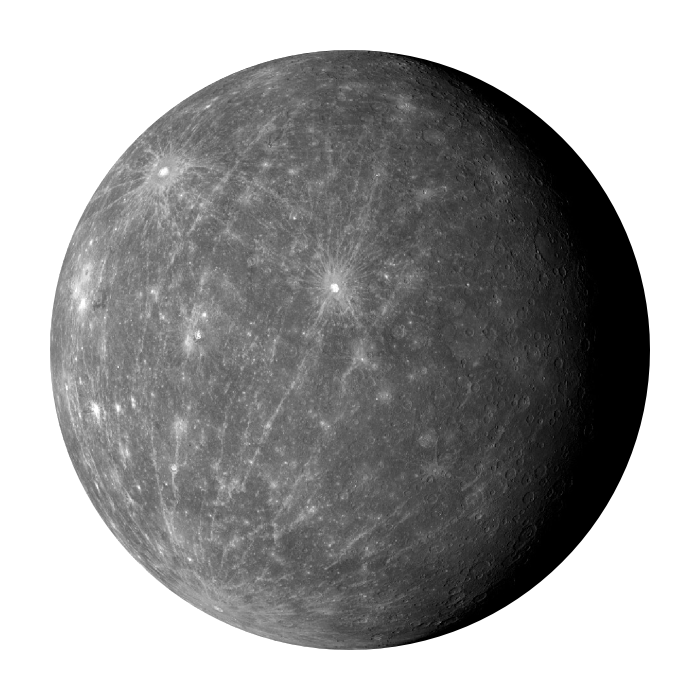
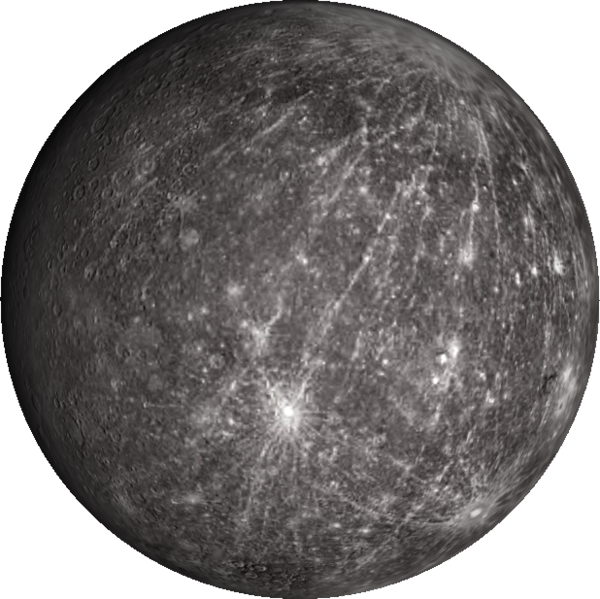
Added Sun & planetary rotation

diff --git a/styles.css b/styles.css
@@ -19,6 +19,7 @@ body {
     justify-content: center;
     align-items: center;
     padding: 0 10px;
+    overflow-x: hidden;
 }
 
 h1 {
@@ -70,17 +71,18 @@ h1 {
         content: '';
         position: absolute;
         top: -16px;
-        left: -9px;
+        left: -10px;
         width: 20px;
         height: 20px;
         background-image: url(./images/Mercury.png);
         background-size: contain;
         border-radius: 50%;
+        animation: spin 30s infinite linear;
     }
     .mercury-orbit-path {
         position: absolute;
-        top: 138px;
-        left: 138px;
+        top: 139px;
+        left: 139px;
         width: 172px;
         height: 172px;
         border: 1px solid var(--orbit-path);
@@ -105,6 +107,7 @@ h1 {
         background-image: url(./images/Venus.png);
         background-size: contain;
         border-radius: 50%;
+        animation: spin 60s infinite linear;
     }
     .venus-orbit-path {
         position: absolute;
@@ -120,7 +123,7 @@ h1 {
 .hours {
     /*background: red;*/
     width: 0.1px;
-    height: 39.5%;
+    height: 38.5%;
     z-index: 1;
     transition: all 1s linear;
 }
@@ -134,6 +137,7 @@ h1 {
         background-image: url(./images/earth.png);
         background-size: contain;
         border-radius: 50%;
+        animation: spin 120s infinite linear;
     }
     .earth-orbit-path {
         position: absolute;
@@ -145,6 +149,15 @@ h1 {
         border-radius: 50%;
     }
 
+
+@keyframes spin {
+    from {
+        transform: rotate(0deg);
+    }
+    to {
+        transform: rotate(359deg);
+    }
+}
 
 .hour-num, .min-num, .sec-num {font-family: 'Noto Sans', sans-serif; color: var(--clock-font-color);}
 
@@ -270,6 +283,21 @@ h1 {
 .solar-system-clock .sec-num58 {--rotation: 348deg;}
 .solar-system-clock .sec-num59 {--rotation: 354deg;}
 .solar-system-clock .sec-num60 {--rotation: 0deg;  }
+
+
+.sun {
+    content: '';
+    position: absolute;
+    top: 185px;
+    left: 190px;
+    width: 75px;
+    height: 75px;
+    background-image: url(./images/Sun.png);
+    background-size: contain;
+    border-radius: 50%;
+    z-index: 10;
+    animation: spin 240s infinite linear;
+}
 
 
 .credit {

diff --git a/index.html b/index.html
@@ -106,6 +106,8 @@
             <div class="sec-num sec-num58">58</div>
             <div class="sec-num sec-num59">59</div>
             <div class="sec-num sec-num60">60</div>
+            
+            <div class="sun"></div>
         </div>
     </section>
     <p class="credit">Designed by: <strong>ajgruber14</strong> <u class="credit-highlight">Check out more of my breakdown projects on GitHub</u> <a href="https://www.github.com/ajgruber14" target="_blank" rel="noreferrer noopener">here</a></p>
